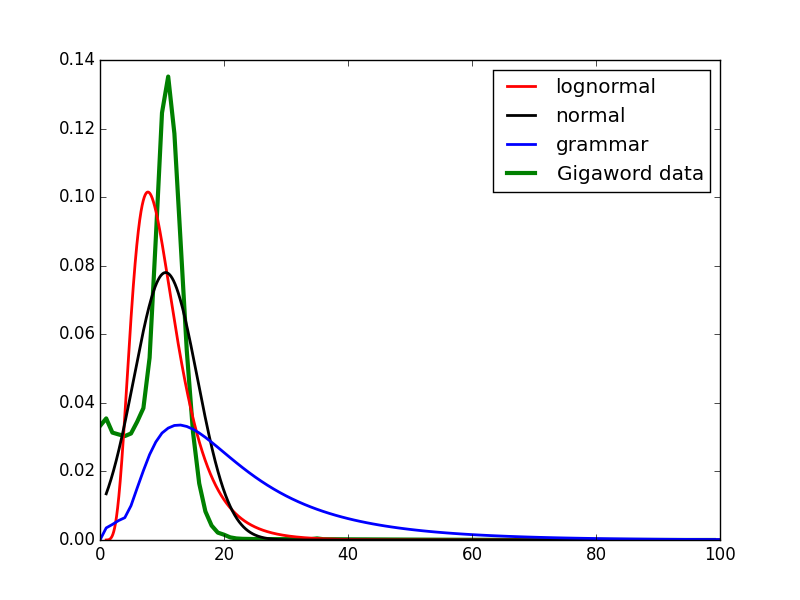
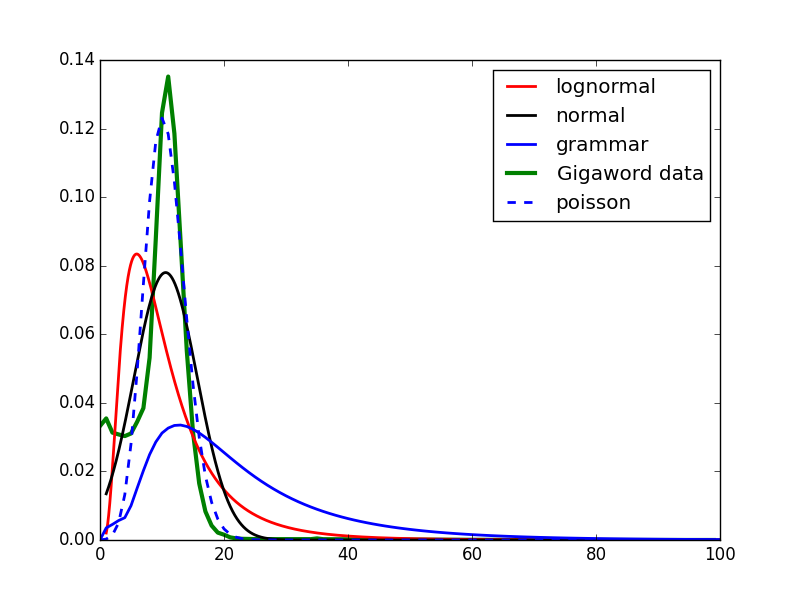
PCFG random sentence

diff --git a/PCFG/real_data/sentence_len_distrib.py b/PCFG/real_data/sentence_len_distrib.py
@@ -6,6 +6,8 @@ import matplotlib.pyplot as plt
 import matplotlib.mlab as mlab
 import numpy as np
 
+from scipy.stats import poisson, nbinom
+
 datafile = "sec02-21.words"
 data = ""
 total = 0
@@ -58,8 +60,11 @@ plt.xlim([0, 100])
 #plt.savefig("word_len.png")
 m = np.mean(len_list)
 v = np.var(len_list)
-m_log = np.log(m/( (1+v/(m**2))**0.5 ))
-s_log = np.log(1+v/(m**2)) ** 0.5
+llength = np.log(len_list)
+#m_log = np.log( m / np.sqrt(1+v/(m**2)) )
+#s_log = np.sqrt( np.log(1+v/(m**2)) )
+m_log = np.mean(llength)
+s_log = np.std(llength)
 
 #plot log normal distribution
 #mu, sigma = 3.25, 0.45 # mean and standard deviation
@@ -71,9 +76,22 @@ line_lognorm, = plt.plot(x, pdf, linewidth=2, color='r')
 
 #plot normal distribution
 line_norm, = plt.plot(x, mlab.normpdf(x, m, np.sqrt(v)), linewidth=2, color='k')
+
+#plot poisson distribution
+mu = m
+dist = poisson(mu)
+x = np.arange(0, 100)
+line_poission, = plt.plot(x, dist.pmf(x), ls="--", linewidth=2)
+
+#plot negative poisson
+p = 1- m/v
+n = m*(1-p)/p
+print n, p
+line_neg_poisson, = plt.plot(x, nbinom.pmf(x, n, p), ls=":", linewidth=2)
+
 # plot probabilites obtained by berkerly parser
 b_prob = [0, 0.0035237700708999546, 0.004540253071801108, 0.005670779362664136, 0.006509449132521744, 0.010003770166938228, 0.015175545661952762, 0.02023282514383079, 0.02492212660337487, 0.02858613120202318, 0.03119180600983595, 0.032644580100564896, 0.03340794865198185, 0.03352666309239694, 0.03311452745438423, 0.03230941022989179, 0.031217276069111545, 0.029932988641918314, 0.028514453053581298, 0.027028120093320965, 0.025517080286036765, 0.024009741301823807, 0.022531131184157702, 0.021097092585539507, 0.019719557341012238, 0.018406124493552837, 0.01716127125772899, 0.015987137935393834, 0.014883736550738491, 0.013849950589958953, 0.012883677868498767, 0.011982217789347336, 0.011142482226450413, 0.010361141026452053, 0.00963478652936984, 0.008959998141594594, 0.008333425213555692, 0.007751825959759251, 0.007212095340986956, 0.006711285482842196, 0.006246612472869113, 0.0058154618524964615, 0.0054153868105329605, 0.005044104503104311, 0.004699490259410519, 0.004379570123118744, 0.004082513087198912, 0.0038066226281486567, 0.0035503283073239278, 0.003312177410313341, 0.003090826806298775, 0.0028850351653677236, 0.002693655523274581, 0.0025156282786914157, 0.0023499746066763315, 0.0021957903013826827, 0.0020522400410035147, 0.0019185520568274555, 0.001794013193884219, 0.0016779643396213032, 0.001569796200946929, 0.0014689454072910348, 0.0013748909176517015, 0.001287150710693388, 0.0012052787369661367, 0.0011288621138335854, 0.0010575185444567257, 0.0009908939433953764, 0.0009286602525418495, 0.000870513432166057, 0.0008161716129993718, 0.0007653733962987129, 0.0007178762898467142, 0.0006734552687829124, 0.0006319014510406163, 0.0005930208779929403, 0.0005566333916734926, 0.0005225716006487069, 0.0004906799272734553, 0.00046081372966572023, 0.00043283849229246494, 0.0004066290795693807, 0.000382069047346403, 0.0003590500075807051, 0.00033747104189291215, 0.000317238160063031, 0.0002982637998527279, 0.00028046636484271734, 0.0002637697972503061, 0.0002481031829448523, 0.00023340038610999414, 0.00021959971121278724, 0.00020664359013314562, 0.0001944782924836829, 0.00018305365731168644, 0.00017232284452280218, 0.00016224210450129368, 0.00015277056452552218, 0.00014387003069061963, 0.00013550480415407232, 0.00012764151061494573, 0.00012024894202453622]
 line_gram, = plt.plot([ i for i in range(len(b_prob))], b_prob, linewidth=2,color='b')
 
-plt.legend([line_lognorm, line_norm, line_gram, real_plt], [ 'lognormal', 'normal', 'grammar', 'Treebank data'])
+plt.legend([line_lognorm, line_norm, line_gram, real_plt, line_poission, line_neg_poisson], [ 'lognormal', 'normal', 'grammar', 'Treebank data', 'poisson', 'negative'])
 plt.show()

diff --git a/PCFG/real_data/len_list_giga.py b/PCFG/real_data/len_list_giga.py
@@ -6,6 +6,8 @@ import matplotlib.pyplot as plt
 import matplotlib.mlab as mlab
 import numpy as np
 
+from scipy.stats import poisson, nbinom
+
 datafile = "result.txt"
 data = ""
 total = 0
@@ -20,8 +22,10 @@ plt.xlim([0, 100])
 #plt.savefig("word_len.png")
 m = 10.5851289305
 v = 26.155766362
-m_log = np.log(m/( (1+v/(m**2))**0.5 ))
-s_log = np.log(1+v/(m**2)) ** 0.5
+#m_log = np.log(m/( (1+v/(m**2))**0.5 ))
+#s_log = np.log(1+v/(m**2)) ** 0.5
+m_log = 2.20442309498
+s_log = 0.652888970111
 
 #plot log normal distribution
 #mu, sigma = 3.25, 0.45 # mean and standard deviation
@@ -33,9 +37,22 @@ line_lognorm, = plt.plot(x, pdf, linewidth=2, color='r')
 
 #plot normal distribution
 line_norm, = plt.plot(x, mlab.normpdf(x, m, np.sqrt(v)), linewidth=2, color='k')
+
+#plot poisson distribution
+mu = m
+dist = poisson(mu)
+x = np.arange(0, 100)
+line_poission, = plt.plot(x, dist.pmf(x), ls="--", linewidth=2)
+
+#plot negative binomial distribution
+p = 1- m/v
+n = m*(1-p)/p
+print n, p
+line_neg_poisson, = plt.plot(x, nbinom.pmf(x, n, p), ls=":", linewidth=2)
+
 # plot probabilites obtained by berkerly parser
 b_prob = [0, 0.0035237700708999546, 0.004540253071801108, 0.005670779362664136, 0.006509449132521744, 0.010003770166938228, 0.015175545661952762, 0.02023282514383079, 0.02492212660337487, 0.02858613120202318, 0.03119180600983595, 0.032644580100564896, 0.03340794865198185, 0.03352666309239694, 0.03311452745438423, 0.03230941022989179, 0.031217276069111545, 0.029932988641918314, 0.028514453053581298, 0.027028120093320965, 0.025517080286036765, 0.024009741301823807, 0.022531131184157702, 0.021097092585539507, 0.019719557341012238, 0.018406124493552837, 0.01716127125772899, 0.015987137935393834, 0.014883736550738491, 0.013849950589958953, 0.012883677868498767, 0.011982217789347336, 0.011142482226450413, 0.010361141026452053, 0.00963478652936984, 0.008959998141594594, 0.008333425213555692, 0.007751825959759251, 0.007212095340986956, 0.006711285482842196, 0.006246612472869113, 0.0058154618524964615, 0.0054153868105329605, 0.005044104503104311, 0.004699490259410519, 0.004379570123118744, 0.004082513087198912, 0.0038066226281486567, 0.0035503283073239278, 0.003312177410313341, 0.003090826806298775, 0.0028850351653677236, 0.002693655523274581, 0.0025156282786914157, 0.0023499746066763315, 0.0021957903013826827, 0.0020522400410035147, 0.0019185520568274555, 0.001794013193884219, 0.0016779643396213032, 0.001569796200946929, 0.0014689454072910348, 0.0013748909176517015, 0.001287150710693388, 0.0012052787369661367, 0.0011288621138335854, 0.0010575185444567257, 0.0009908939433953764, 0.0009286602525418495, 0.000870513432166057, 0.0008161716129993718, 0.0007653733962987129, 0.0007178762898467142, 0.0006734552687829124, 0.0006319014510406163, 0.0005930208779929403, 0.0005566333916734926, 0.0005225716006487069, 0.0004906799272734553, 0.00046081372966572023, 0.00043283849229246494, 0.0004066290795693807, 0.000382069047346403, 0.0003590500075807051, 0.00033747104189291215, 0.000317238160063031, 0.0002982637998527279, 0.00028046636484271734, 0.0002637697972503061, 0.0002481031829448523, 0.00023340038610999414, 0.00021959971121278724, 0.00020664359013314562, 0.0001944782924836829, 0.00018305365731168644, 0.00017232284452280218, 0.00016224210450129368, 0.00015277056452552218, 0.00014387003069061963, 0.00013550480415407232, 0.00012764151061494573, 0.00012024894202453622]
 line_gram, = plt.plot([ i for i in range(len(b_prob))], b_prob, linewidth=2,color='b')
 
-plt.legend([line_lognorm, line_norm, line_gram, real_plt], [ 'lognormal', 'normal', 'grammar', 'Gigaword data'])
+plt.legend([line_lognorm, line_norm, line_gram, real_plt, line_poission, line_neg_poisson], [ 'lognormal', 'normal', 'grammar', 'Gigaword data', 'poisson', 'negative binomial'])
 plt.show()

diff --git a/PCFG/random_sentence.py b/PCFG/random_sentence.py
@@ -1,0 +1,71 @@
+import random
+
+lexicon_file = "out.txt.lexicon"
+grammar_file = "eliminated.grammar"
+grammar_dict = {}
+terminal_dict = {}
+
+def generate(root):
+	if root in grammar_dict:
+		choice = random.randint(0, len(grammar_dict[root].keys())-1)
+		rule = grammar_dict[root].keys()[choice]
+		rules = rule.split(" ")
+		if len(rules) >= 2:
+			left = generate(rules[0])
+			right = generate(rules[1])
+			return " ".join([left, right])
+		elif len(rules) == 1:
+			return generate(rules[0])
+	if root in terminal_dict:
+			choice = random.randint(0, len(terminal_dict[root].keys())-1)
+			return terminal_dict[root].keys()[choice]
+	return ""
+
+
+if __name__=="__main__":
+	with open(lexicon_file) as myfile:
+		for line in myfile:
+			gram = line.replace('\n', '').split(" ")
+			non_term = gram[0]
+			word = gram[1]
+			prob_list = gram[2:] #each prob still has [ ] and , that needs to be processed
+			i = 0
+			for prob in prob_list:
+				#remove trailing char
+				prob = prob[:-1]
+				if prob[0] == '[':
+					prob = prob[1:]
+				cur_non_term = non_term + "_" + str(i)
+				if cur_non_term in terminal_dict:
+					terminal_dict[cur_non_term][word] = float(prob)
+				else:
+					terminal_dict[cur_non_term] = {word: float(prob)}
+				i += 1
+	
+	with open(grammar_file) as myfile:
+		for line in myfile:
+			gram = line.replace('\n', '').split(" ")
+			if len(gram) == 5:
+				term_l = gram[0]
+				term_r1 = gram[2]
+				term_r2 = gram[3]
+				prob = float(gram[4])
+				#update grammar dict
+				if term_l not in grammar_dict:
+					grammar_dict[term_l] = { " ".join([term_r1, term_r2]): prob }
+				else:
+					grammar_dict[term_l][" ".join([term_r1, term_r2])] = prob
+			else:
+				term_l = gram[0]
+				term_r1 = gram[2]
+				prob = float(gram[3])
+				if term_l not in grammar_dict:
+					grammar_dict[term_l] = { term_r1: prob }
+				else:
+					grammar_dict[term_l][term_r1] = prob
+	
+	
+	# generate sentence	
+	for i in range(30):
+		print generate("ROOT_0")
+
